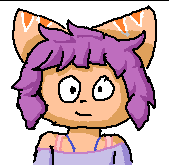
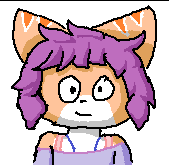
add image and change one, make another css script

Changed region(s): [[0.3254, 0.5758, 0.6805, 0.9394], [0.2959, 0.8485, 0.3254, 0.8788]]

diff --git a/oc/jania.html b/oc/jania.html
@@ -8,7 +8,7 @@
 	<body>
         <a href="../index.html">Back to menu</a>
 		<h2>Jania</h2>
-		<img src="../image/0069.png" style="border: 5px solid;">
+		<img src="../image/0069.png">
 		<p></p>
 		Profile:
 		<dir>
@@ -59,14 +59,14 @@
 			One time, Jania was with friends in another town, but it was crowded. She wanted to try an attraction and ride with her friends.
 			That's was fun, but one time, she saw, what people are coming to one place. A famous person is came to the attraction. But was soo
 			much people, so, Jania decided to go back to her friends. When she started to go to her friends, she couldn't found them.
-			Jania was patient, and started to go away from crowd. Then, she started to <a href="def/connections.html">connect</a> to Mitchell and said, what she's waited near road.
+			Jania was patient, and started to go away from crowd. Then, she started to <a href="../def/connections.html">connect</a> to Mitchell and said, what she's waited near road.
 			Her friend come here and was happy to found their friend. 
 		</p>
 		<p>Gallery:</p>
-		<img src="../image/Jania is yawing.png" style="border: 5px solid;">
-		<img src="../image/Jania with gun.png" style="border: 5px solid;">
-		<img src="../image/0070.png" style="border: 5px solid;">
-		<img src="../image/Jania by @Thir.jpg" style="border: 5px solid">
+		<img src="../image/Jania is yawing.png">
+		<img src="../image/Jania with gun.png">
+		<img src="../image/0070.png">
+		<img src="../image/Jania by @Thir.jpg">
 		[by <a href="https://twitter.com/Uki7UqvfzqQJ36j" target="_blank">@Uki7UqvfzqQJ36j</a>]
 		<footer>
 			<p>Author: Kiwii Devulopir</p>

diff --git a/oc/kiwuar.html b/oc/kiwuar.html
@@ -8,7 +8,7 @@
 	<body>
         <a href="../index.html">Back to menu</a>
 		<h2>Kiwuar</h2>
-		<img src="../image/0022.png" style="border: 5px solid;">
+		<img src="../image/0022.png">
 		<p>
 			Kiwuar is antropomorphic cat, what is current fursona of Kiwii Devulopir
 		</p>
@@ -65,13 +65,13 @@
 			<i>[Yeah, unconnectable relationships, just it was a situation, when she was there before reattach to another school]</i>
 		</p>
 		<p>Gallery:</p>
-		<img src="../image/0009.png" style="border: 5px solid;">
-		<img src="../image/0065.png" style="border: 5px solid;">
-		<img src="../image/0070.png" style="border: 5px solid;">
-		<img src="../image/Kiwuar with cover.png" style="border: 5px solid;">
-		<img src="../image/Kiwuar and rain by @Thir.jpg" style="border: 5px solid">
+		<img src="../image/0009.png">
+		<img src="../image/0065.png">
+		<img src="../image/0070.png">
+		<img src="../image/Kiwuar with cover.png">
+		<img src="../image/Kiwuar and rain by @Thir.jpg">
 		[by <a href="https://twitter.com/Uki7UqvfzqQJ36j" target="_blank">@Uki7UqvfzqQJ36j</a>]
-		<img src="../image/Kiwuar headshot by Liquid Depresso.png" style="border: 5px solid">
+		<img src="../image/Kiwuar headshot by Liquid Depresso.png">
 		[by <a href="https://www.reddit.com/user/Liquid_Depresso" target="_blank">u/Liquid_Depresso</a>]
 		<footer>
 			<p>Author: Kiwii Devulopir</p>

diff --git a/oc/stefan.html b/oc/stefan.html
@@ -54,14 +54,16 @@
 		<p>
 			Stefan one time got a letter about visiting to the literature group. When he came there, Stefan was suprised of his present in Valentine day.
 			Stefan saw in the present a Jimmy plush with heard and mark "Grace for the best writer of fan fictions". He knew about Grace,
-			it was a member of the group, but at this time, she wasn't there. Stefan started to <a href="def/connections.html">connecting</a> to her. He thanked Grace for
+			it was a member of the group, but at this time, she wasn't there. Stefan started to <a href="../def/connections.html">connecting</a> to her. He thanked Grace for
 			the present and asked her, where she is. Grace is ill and she waiting until full treatment of the disease to hug him.
 		</p>
 		</p>
 		<p>Gallery:</p>
-		<img src="../image/Stefan with different outfit.png" style="border: 5px solid;">
-		<img src="../image/Stefan writing function.png" style="border: 5px solid;">
-		<img src="../image/Stefan pfp.png" style="border: 5px solid;">
+		<img src="../image/Stefan with different outfit.png">
+		<img src="../image/Stefan writing function.png" >
+		<img src="../image/Stefan pfp.png">
+		<img src="../image/Stefan by @Thir.png">
+		[by <a href="https://twitter.com/Uki7UqvfzqQJ36j" target="_blank">@Uki7UqvfzqQJ36j</a>]
 		<footer>
 			<p>Author: Kiwii Devulopir</p>
 			<dir>

diff --git a/oc/alexa.html b/oc/alexa.html
@@ -8,7 +8,7 @@
 	<body>
         <a href="../index.html">Back to menu</a>
 		<h2>Alexa</h2>
-		<img src="../image/Alexa.png" style="border: 5px solid;">
+		<img src="../image/Alexa.png">
 		[Tip: do not scale vision only in head, otherwise, it could be unproportionally, first of all, set up your pose skelet, and start to draw sketch]
 		<p></p>
 		Profile:
@@ -69,7 +69,7 @@
 		</p>
 		</p>
 		<p>Gallery:</p>
-		<img src="../image/Alexa pfp.png" style="border: 5px solid;">
+		<img src="../image/Alexa pfp.png">
 		<footer>
 			<p>Author: Kiwii Devulopir</p>
 			<dir>

diff --git a/oc/thomas.html b/oc/thomas.html
@@ -8,7 +8,7 @@
 	<body>
         <a href="../index.html">Back to menu</a>
 		<h2>Thomas</h2>
-		<img src="../image/Thomas.png" style="border: 5px solid;">
+		<img src="../image/Thomas.png">
 		<p></p>
 		Profile:
 		<dir>
@@ -16,7 +16,7 @@
 			<p>Biological class: Dragon & Tiger Shark</p>
 			<p>Country where born: &lt;/&gt; (emigrated from Fur)</p>
 			<p>Age: 20</p>
-			<p>Date of born: 13.11.16M(2005)</p>
+			<p>Date of born: 16.01.17M(2003)</p>
 			<p>Date of created: 22.01.2023</p>
 			<p>Work: Programmer</p>
 			<p>Parents:</p>

diff --git a/def/currency S.html b/def/currency S.html
@@ -11,7 +11,7 @@
 			<a href="../index.html">Back to menu</a>
 		</ol>
 		<h2>currency 'S'</h2>
-		<img src="../image/symbol of currency S.png" style="border: 5px solid;">
+		<img src="../image/symbol of currency S.png">
 		<p>
 			This is convented currency in the world. In beforedocking ages was areas and production. Mem in 24.06.4M was invited a first currency, paper.
 			Lately all are invented own currecies, even from minuding ore. But eventually made an abstract currency called 'S'. First usage was in Vec, lately

diff --git a/css/fontchanger.css b/css/fontchanger.css
@@ -1,3 +1,6 @@
 * {
   font-family: 'Rockwell';
   }
+  img {
+    border: 5px solid black;
+  }
